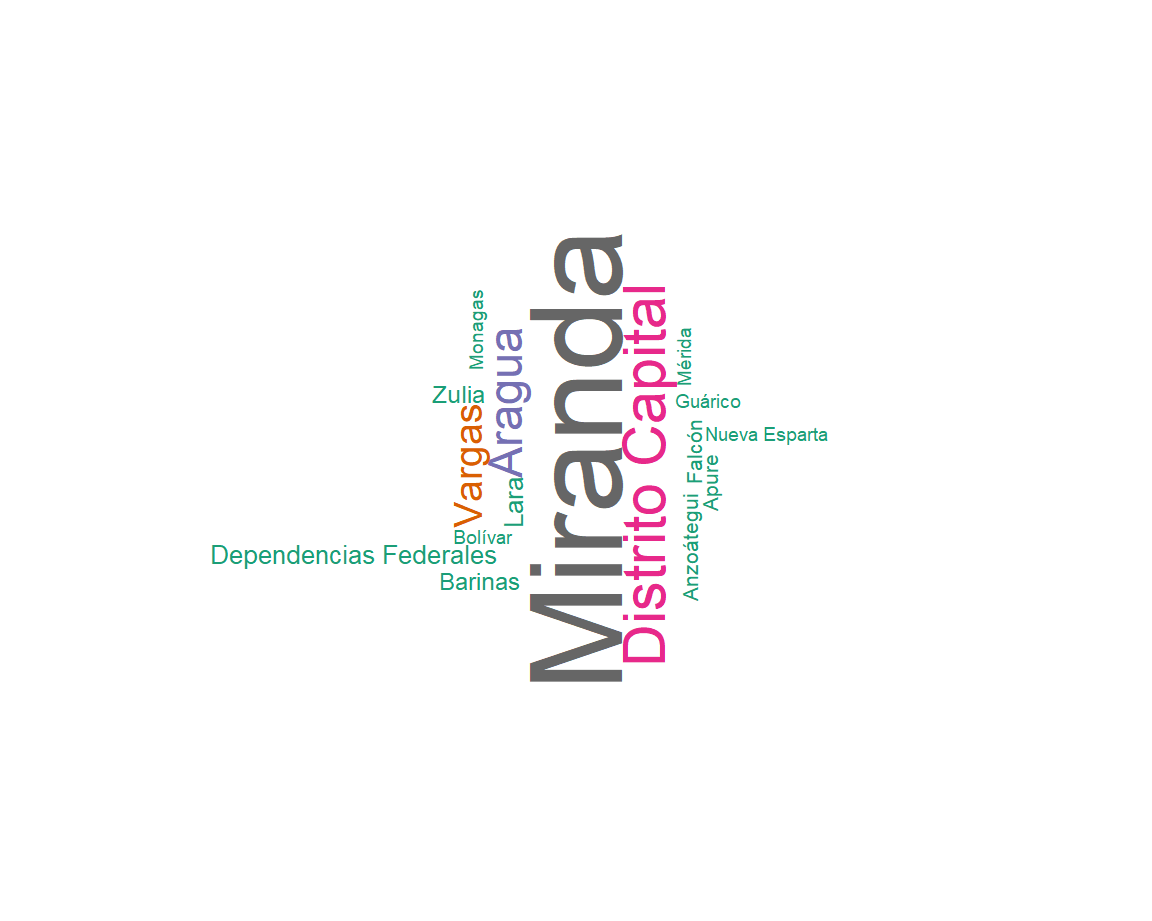
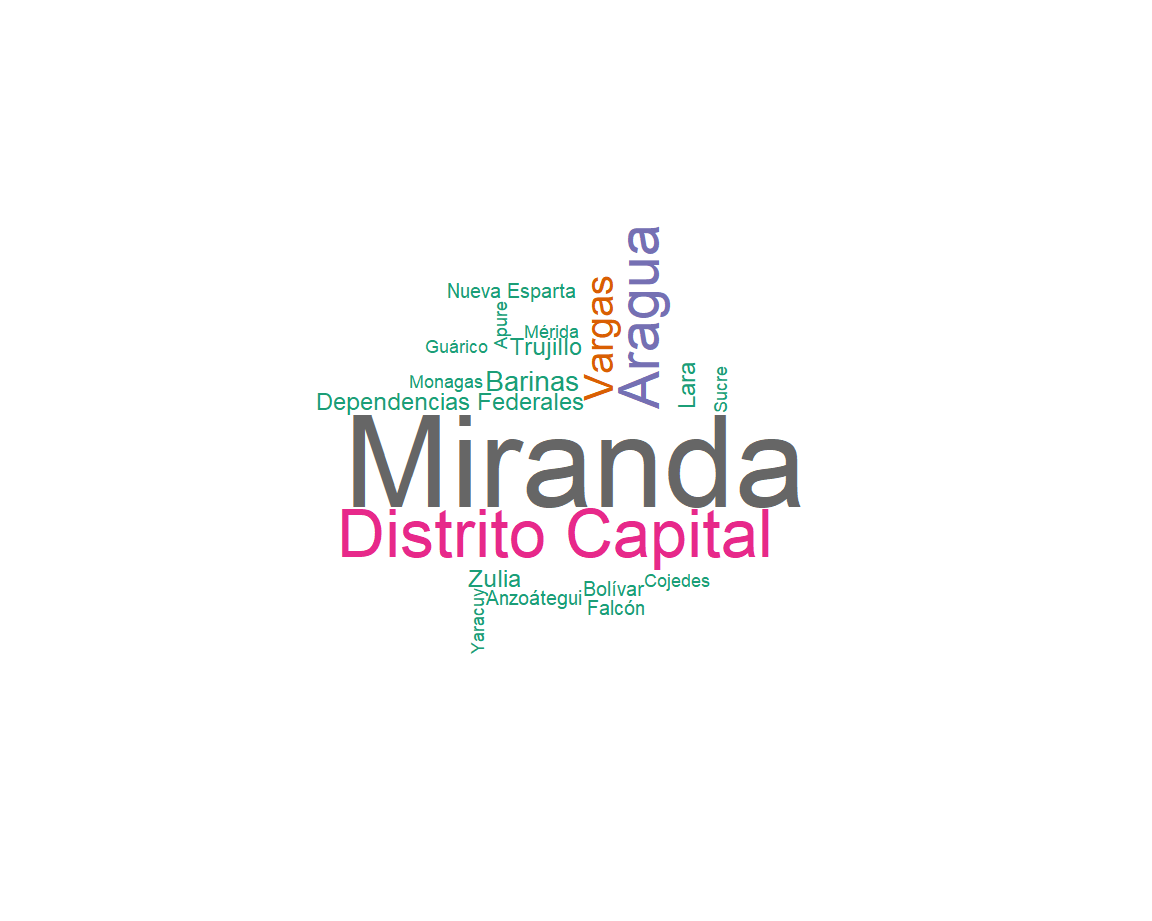
updating cases and modifying script

Changed region(s): [[0.1875, 0.2432, 0.7188, 0.76]]

diff --git a/docs/index.html b/docs/index.html
@@ -2607,28 +2607,28 @@ window.FlexDashboardComponents.push({
 <div class="knitr-options" data-fig-width="576" data-fig-height="460">
 
 </div>
-<span class="value-output" data-caption="Total Confirmed Cases" data-icon="fas fa-stethoscope" data-color="Purple">107</span>
+<span class="value-output" data-caption="Total Confirmed Cases" data-icon="fas fa-stethoscope" data-color="Purple">153</span>
 </div>
 <div id="active" class="section level3 value-box">
 <h3>active</h3>
 <div class="knitr-options" data-fig-width="576" data-fig-height="460">
 
 </div>
-<span class="value-output" data-caption="Active Cases" data-icon="fas fa-medkit" data-color="Orange">92</span>
+<span class="value-output" data-caption="Active Cases" data-icon="fas fa-medkit" data-color="Orange">101</span>
 </div>
 <div id="recovered" class="section level3 value-box">
 <h3>recovered</h3>
 <div class="knitr-options" data-fig-width="576" data-fig-height="460">
 
 </div>
-<span class="value-output" data-caption="Recovered Cases" data-icon="ion-android-favorite-outline" data-color="#00FFFF">15</span>
+<span class="value-output" data-caption="Recovered Cases" data-icon="ion-android-favorite-outline" data-color="#00FFFF">52</span>
 </div>
 <div id="death" class="section level3 value-box">
 <h3>death</h3>
 <div class="knitr-options" data-fig-width="576" data-fig-height="460">
 
 </div>
-<span class="value-output" data-caption="Death Cases" data-icon="fas fa-heartbeat" data-color="red">1</span>
+<span class="value-output" data-caption="Death Cases" data-icon="fas fa-heartbeat" data-color="red">7</span>
 </div>
 </div>
 <div id="column-1" class="section level2" data-width="650">
@@ -2638,16 +2638,16 @@ window.FlexDashboardComponents.push({
 <div class="knitr-options" data-fig-width="576" data-fig-height="460">
 
 </div>
-<div id="htmlwidget-51d7a6373f06e38b45ea" style="width:576px;height:460.8px;" class="plotly html-widget"></div>
-<script type="application/json" data-for="htmlwidget-51d7a6373f06e38b45ea">{"x":{"visdat":{"16d029985a2":["function () ","plotlyVisDat"]},"cur_data":"16d029985a2","attrs":{"16d029985a2":{"x":{},"y":{},"mode":"lines+markers","marker":{"color":"black","size":10},"line":{"color":"black"},"alpha_stroke":1,"sizes":[10,100],"spans":[1,20],"type":"scatter"}},"layout":{"margin":{"b":40,"l":60,"t":25,"r":10},"xaxis":{"domain":[0,1],"automargin":true,"title":"Dates","type":"category","categoryorder":"array","categoryarray":["13-03-2020","14-03-2020","15-03-2020","16-03-2020","17-03-2020","18-03-2020","19-03-2020","21-03-2020","22-03-2020","23-03-2020","24-03-2020","25-03-2020","26-03-2020"]},"yaxis":{"domain":[0,1],"automargin":true,"title":"CasesPerDay"},"hovermode":"closest","showlegend":false},"source":"A","config":{"showSendToCloud":false},"data":[{"x":["13-03-2020","14-03-2020","15-03-2020","16-03-2020","17-03-2020","18-03-2020","19-03-2020","21-03-2020","22-03-2020","23-03-2020","24-03-2020","25-03-2020","26-03-2020"],"y":[2,8,7,16,3,0,6,28,7,7,7,15,1],"mode":"lines+markers","marker":{"color":"black","size":10,"line":{"color":"rgba(31,119,180,1)"}},"line":{"color":"black"},"type":"scatter","error_y":{"color":"rgba(31,119,180,1)"},"error_x":{"color":"rgba(31,119,180,1)"},"xaxis":"x","yaxis":"y","frame":null}],"highlight":{"on":"plotly_click","persistent":false,"dynamic":false,"selectize":false,"opacityDim":0.2,"selected":{"opacity":1},"debounce":0},"shinyEvents":["plotly_hover","plotly_click","plotly_selected","plotly_relayout","plotly_brushed","plotly_brushing","plotly_clickannotation","plotly_doubleclick","plotly_deselect","plotly_afterplot","plotly_sunburstclick"],"base_url":"https://plot.ly"},"evals":[],"jsHooks":[]}</script>
+<div id="htmlwidget-340781490cc83888d16f" style="width:576px;height:460.8px;" class="plotly html-widget"></div>
+<script type="application/json" data-for="htmlwidget-340781490cc83888d16f">{"x":{"visdat":{"2ad02162c16":["function () ","plotlyVisDat"]},"cur_data":"2ad02162c16","attrs":{"2ad02162c16":{"x":{},"y":{},"mode":"lines+markers","marker":{"color":"black","size":10},"line":{"color":"black"},"alpha_stroke":1,"sizes":[10,100],"spans":[1,20],"type":"scatter"}},"layout":{"margin":{"b":40,"l":60,"t":25,"r":10},"xaxis":{"domain":[0,1],"automargin":true,"title":"Dates"},"yaxis":{"domain":[0,1],"automargin":true,"title":"CasesPerDay"},"hovermode":"closest","showlegend":false},"source":"A","config":{"showSendToCloud":false},"data":[{"x":["2020-03-13","2020-03-14","2020-03-15","2020-03-16","2020-03-17","2020-03-18","2020-03-19","2020-03-20","2020-03-21","2020-03-22","2020-03-23","2020-03-24","2020-03-25","2020-03-26","2020-03-27","2020-03-28","2020-03-29","2020-03-30","2020-03-31","2020-04-01","2020-04-02"],"y":[2,8,7,16,3,0,6,0,28,7,7,7,15,1,6,6,10,6,8,1,2],"mode":"lines+markers","marker":{"color":"black","size":10,"line":{"color":"rgba(31,119,180,1)"}},"line":{"color":"black"},"type":"scatter","error_y":{"color":"rgba(31,119,180,1)"},"error_x":{"color":"rgba(31,119,180,1)"},"xaxis":"x","yaxis":"y","frame":null}],"highlight":{"on":"plotly_click","persistent":false,"dynamic":false,"selectize":false,"opacityDim":0.2,"selected":{"opacity":1},"debounce":0},"shinyEvents":["plotly_hover","plotly_click","plotly_selected","plotly_relayout","plotly_brushed","plotly_brushing","plotly_clickannotation","plotly_doubleclick","plotly_deselect","plotly_afterplot","plotly_sunburstclick"],"base_url":"https://plot.ly"},"evals":[],"jsHooks":[]}</script>
 </div>
 <div id="total-cases-per-day" class="section level3">
 <h3>Total Cases per day</h3>
 <div class="knitr-options" data-fig-width="576" data-fig-height="460">
 
 </div>
-<div id="htmlwidget-259cb05514dc0cac0a37" style="width:576px;height:460.8px;" class="plotly html-widget"></div>
-<script type="application/json" data-for="htmlwidget-259cb05514dc0cac0a37">{"x":{"visdat":{"16d06292724c":["function () ","plotlyVisDat"]},"cur_data":"16d06292724c","attrs":{"16d06292724c":{"x":{},"y":{},"text":{},"marker":{"color":"#FFA500"},"textposition":"auto","name":"Active","alpha_stroke":1,"sizes":[10,100],"spans":[1,20],"type":"bar"}},"layout":{"margin":{"b":40,"l":60,"t":25,"r":10},"xaxis":{"domain":[0,1],"automargin":true,"title":"Dates","type":"category","categoryorder":"array","categoryarray":["13-03-2020","14-03-2020","15-03-2020","16-03-2020","17-03-2020","18-03-2020","19-03-2020","21-03-2020","22-03-2020","23-03-2020","24-03-2020","25-03-2020","26-03-2020"]},"yaxis":{"domain":[0,1],"automargin":true,"title":"AcumulativeSum"},"hovermode":"closest","showlegend":false},"source":"A","config":{"showSendToCloud":false},"data":[{"x":["13-03-2020","14-03-2020","15-03-2020","16-03-2020","17-03-2020","18-03-2020","19-03-2020","21-03-2020","22-03-2020","23-03-2020","24-03-2020","25-03-2020","26-03-2020"],"y":[2,10,17,33,36,36,42,70,77,84,91,106,107],"text":[2,10,17,33,36,36,42,70,77,84,91,106,107],"marker":{"color":"#FFA500","line":{"color":"rgba(31,119,180,1)"}},"textposition":["auto","auto","auto","auto","auto","auto","auto","auto","auto","auto","auto","auto","auto"],"name":"Active","type":"bar","error_y":{"color":"rgba(31,119,180,1)"},"error_x":{"color":"rgba(31,119,180,1)"},"xaxis":"x","yaxis":"y","frame":null}],"highlight":{"on":"plotly_click","persistent":false,"dynamic":false,"selectize":false,"opacityDim":0.2,"selected":{"opacity":1},"debounce":0},"shinyEvents":["plotly_hover","plotly_click","plotly_selected","plotly_relayout","plotly_brushed","plotly_brushing","plotly_clickannotation","plotly_doubleclick","plotly_deselect","plotly_afterplot","plotly_sunburstclick"],"base_url":"https://plot.ly"},"evals":[],"jsHooks":[]}</script>
+<div id="htmlwidget-6c8bd0b25c768002e978" style="width:576px;height:460.8px;" class="plotly html-widget"></div>
+<script type="application/json" data-for="htmlwidget-6c8bd0b25c768002e978">{"x":{"visdat":{"2ad07a7177df":["function () ","plotlyVisDat"]},"cur_data":"2ad07a7177df","attrs":{"2ad07a7177df":{"x":{},"y":{},"text":{},"marker":{"color":"#FFA500"},"textposition":"auto","name":"Active","alpha_stroke":1,"sizes":[10,100],"spans":[1,20],"type":"bar"}},"layout":{"margin":{"b":40,"l":60,"t":25,"r":10},"xaxis":{"domain":[0,1],"automargin":true,"title":"Dates"},"yaxis":{"domain":[0,1],"automargin":true,"title":"AcumulativeSum"},"hovermode":"closest","showlegend":false},"source":"A","config":{"showSendToCloud":false},"data":[{"x":["2020-03-13","2020-03-14","2020-03-15","2020-03-16","2020-03-17","2020-03-18","2020-03-19","2020-03-20","2020-03-21","2020-03-22","2020-03-23","2020-03-24","2020-03-25","2020-03-26","2020-03-27","2020-03-28","2020-03-29","2020-03-30","2020-03-31","2020-04-01","2020-04-02"],"y":[2,10,17,33,36,36,42,42,70,77,84,91,106,107,113,119,129,135,143,144,146],"text":[2,10,17,33,36,36,42,42,70,77,84,91,106,107,113,119,129,135,143,144,146],"marker":{"color":"#FFA500","line":{"color":"rgba(31,119,180,1)"}},"textposition":["auto","auto","auto","auto","auto","auto","auto","auto","auto","auto","auto","auto","auto","auto","auto","auto","auto","auto","auto","auto","auto"],"name":"Active","type":"bar","error_y":{"color":"rgba(31,119,180,1)"},"error_x":{"color":"rgba(31,119,180,1)"},"xaxis":"x","yaxis":"y","frame":null}],"highlight":{"on":"plotly_click","persistent":false,"dynamic":false,"selectize":false,"opacityDim":0.2,"selected":{"opacity":1},"debounce":0},"shinyEvents":["plotly_hover","plotly_click","plotly_selected","plotly_relayout","plotly_brushed","plotly_brushing","plotly_clickannotation","plotly_doubleclick","plotly_deselect","plotly_afterplot","plotly_sunburstclick"],"base_url":"https://plot.ly"},"evals":[],"jsHooks":[]}</script>
 </div>
 </div>
 </div>
@@ -2660,8 +2660,8 @@ window.FlexDashboardComponents.push({
 <div class="knitr-options" data-fig-width="576" data-fig-height="460">
 
 </div>
-<div id="htmlwidget-eda054c7bda5236df7ce" style="width:576px;height:460.8px;" class="plotly html-widget"></div>
-<script type="application/json" data-for="htmlwidget-eda054c7bda5236df7ce">{"x":{"visdat":{"16d0524c1ee9":["function () ","plotlyVisDat"]},"cur_data":"16d0524c1ee9","attrs":{"16d0524c1ee9":{"x":{},"y":{},"text":{},"marker":{"color":"purple"},"textposition":"auto","alpha_stroke":1,"sizes":[10,100],"spans":[1,20],"type":"bar"}},"layout":{"margin":{"b":40,"l":60,"t":25,"r":10},"xaxis":{"domain":[0,1],"automargin":true,"title":"state","type":"category","categoryorder":"array","categoryarray":["Miranda","Distrito Capital","Aragua","Vargas","Lara","Dependencias Federales","Barinas","Zulia","Anzoátegui","Apure","Falcón","Bolívar","Guárico","Mérida","Monagas","Nueva Esparta"]},"yaxis":{"domain":[0,1],"automargin":true,"title":"CasesPerState"},"hovermode":"closest","showlegend":false},"source":"A","config":{"showSendToCloud":false},"data":[{"x":["Distrito Capital","Anzoátegui","Apure","Aragua","Barinas","Bolívar","Falcón","Guárico","Lara","Mérida","Miranda","Monagas","Nueva Esparta","Vargas","Zulia","Dependencias Federales"],"y":[17,2,2,12,3,1,2,1,4,1,44,1,1,9,3,4],"text":[17,2,2,12,3,1,2,1,4,1,44,1,1,9,3,4],"marker":{"color":"purple","line":{"color":"rgba(31,119,180,1)"}},"textposition":["auto","auto","auto","auto","auto","auto","auto","auto","auto","auto","auto","auto","auto","auto","auto","auto"],"type":"bar","error_y":{"color":"rgba(31,119,180,1)"},"error_x":{"color":"rgba(31,119,180,1)"},"xaxis":"x","yaxis":"y","frame":null}],"highlight":{"on":"plotly_click","persistent":false,"dynamic":false,"selectize":false,"opacityDim":0.2,"selected":{"opacity":1},"debounce":0},"shinyEvents":["plotly_hover","plotly_click","plotly_selected","plotly_relayout","plotly_brushed","plotly_brushing","plotly_clickannotation","plotly_doubleclick","plotly_deselect","plotly_afterplot","plotly_sunburstclick"],"base_url":"https://plot.ly"},"evals":[],"jsHooks":[]}</script>
+<div id="htmlwidget-2d640cab861882483f5f" style="width:576px;height:460.8px;" class="plotly html-widget"></div>
+<script type="application/json" data-for="htmlwidget-2d640cab861882483f5f">{"x":{"visdat":{"2ad01bd64983":["function () ","plotlyVisDat"]},"cur_data":"2ad01bd64983","attrs":{"2ad01bd64983":{"x":{},"y":{},"text":{},"marker":{"color":"purple"},"textposition":"auto","alpha_stroke":1,"sizes":[10,100],"spans":[1,20],"type":"bar"}},"layout":{"margin":{"b":40,"l":60,"t":25,"r":10},"xaxis":{"domain":[0,1],"automargin":true,"title":"state","type":"category","categoryorder":"array","categoryarray":["Miranda","Distrito Capital","Aragua","Vargas","Barinas","Dependencias Federales","Lara","Trujillo","Zulia","Anzoátegui","Bolívar","Falcón","Nueva Esparta","Apure","Cojedes","Guárico","Mérida","Monagas","Sucre","Yaracuy","Amazonas","Carabobo","Delta Amacuro","Portuguesa","Táchira"]},"yaxis":{"domain":[0,1],"automargin":true,"title":"CasesPerState"},"hovermode":"closest","showlegend":false},"source":"A","config":{"showSendToCloud":false},"data":[{"x":["Amazonas","Anzoátegui","Apure","Aragua","Barinas","Bolívar","Carabobo","Cojedes","Delta Amacuro","Dependencias Federales","Distrito Capital","Falcón","Guárico","Lara","Mérida","Miranda","Monagas","Nueva Esparta","Portuguesa","Sucre","Táchira","Trujillo","Vargas","Yaracuy","Zulia"],"y":[0,2,1,21,6,2,0,1,0,4,26,2,1,4,1,57,1,2,0,1,0,4,12,1,4],"text":[0,2,1,21,6,2,0,1,0,4,26,2,1,4,1,57,1,2,0,1,0,4,12,1,4],"marker":{"color":"purple","line":{"color":"rgba(31,119,180,1)"}},"textposition":["auto","auto","auto","auto","auto","auto","auto","auto","auto","auto","auto","auto","auto","auto","auto","auto","auto","auto","auto","auto","auto","auto","auto","auto","auto"],"type":"bar","error_y":{"color":"rgba(31,119,180,1)"},"error_x":{"color":"rgba(31,119,180,1)"},"xaxis":"x","yaxis":"y","frame":null}],"highlight":{"on":"plotly_click","persistent":false,"dynamic":false,"selectize":false,"opacityDim":0.2,"selected":{"opacity":1},"debounce":0},"shinyEvents":["plotly_hover","plotly_click","plotly_selected","plotly_relayout","plotly_brushed","plotly_brushing","plotly_clickannotation","plotly_doubleclick","plotly_deselect","plotly_afterplot","plotly_sunburstclick"],"base_url":"https://plot.ly"},"evals":[],"jsHooks":[]}</script>
 </div>
 <div id="map" class="section level3">
 <h3>Map</h3>

diff --git a/docs/scrapingwikipediacoronavirusvnzla.py b/docs/scrapingwikipediacoronavirusvnzla.py
@@ -19,9 +19,15 @@ casosdias=soup('span',{'style':'width: 3.5em;padding:0 0.3em 0 0; text-align:rig
 
 cantidad=[]
 
+count=0
 for tag in casosdias:
-    cantidad.append(int(tag.contents[0]))
-    
+    try:
+        cases=int(tag.contents[0])
+    except:
+        n=count-1
+        cases=int(casosdias[n].contents[0])
+    cantidad.append(cases)
+    count+=1
 #La cantidad es la suma acumulativa, hay que diferenciar i - i-1
 PorDia=[]
 PorDia.append(cantidad[0])
@@ -34,8 +40,13 @@ for i in range(1,len(cantidad)):
 Fechas=[]
 dates=soup('td',{'style':'padding-left:0.4em; padding-right:0.4em; text-align:center'})
 
-for tag in dates[0::2]:
-    Fechas.append(str(tag.contents[0]))
+for tag in dates[0::3]:
+    date=str(tag.contents[0])
+    if '2020' in date:
+        Fechas.append(date)
+    else:
+        date='20-03-2020'
+        Fechas.append(date)
     
 
 
@@ -43,7 +54,7 @@ for tag in dates[0::2]:
 
 Estados=[]
 tags1=soup('table',{'class':'wikitable sortable col3der'}) 
-tags2=tags1[0]('a')
+tags2=tags1[0]('a',title=True) #no importa que tenga title pero que tenga ese atributo
 
 for tag in tags2:
     Estados.append(str(tag.contents[0]))
@@ -84,9 +95,9 @@ for i in range(0,len(td)):
     if len(td[i])!=0:
         td1.append(td[i])
         
-Total=int(td1[12][0].contents[0])
-Muertes=int(td1[13][0].contents[0])
-Recuperados=int(td1[14][0].contents[0])
+Total=int(td1[13][0].contents[0])
+Muertes=int(td1[14][0].contents[0])
+Recuperados=int(td1[15][0].contents[0])
 Activos=Total-Recuperados    
  
        

diff --git a/scrapingwikipediacoronavirusvnzla.py b/scrapingwikipediacoronavirusvnzla.py
@@ -19,9 +19,15 @@ casosdias=soup('span',{'style':'width: 3.5em;padding:0 0.3em 0 0; text-align:rig
 
 cantidad=[]
 
+count=0
 for tag in casosdias:
-    cantidad.append(int(tag.contents[0]))
-    
+    try:
+        cases=int(tag.contents[0])
+    except:
+        n=count-1
+        cases=int(casosdias[n].contents[0])
+    cantidad.append(cases)
+    count+=1
 #La cantidad es la suma acumulativa, hay que diferenciar i - i-1
 PorDia=[]
 PorDia.append(cantidad[0])
@@ -34,8 +40,13 @@ for i in range(1,len(cantidad)):
 Fechas=[]
 dates=soup('td',{'style':'padding-left:0.4em; padding-right:0.4em; text-align:center'})
 
-for tag in dates[0::2]:
-    Fechas.append(str(tag.contents[0]))
+for tag in dates[0::3]:
+    date=str(tag.contents[0])
+    if '2020' in date:
+        Fechas.append(date)
+    else:
+        date='20-03-2020'
+        Fechas.append(date)
     
 
 
@@ -43,7 +54,7 @@ for tag in dates[0::2]:
 
 Estados=[]
 tags1=soup('table',{'class':'wikitable sortable col3der'}) 
-tags2=tags1[0]('a')
+tags2=tags1[0]('a',title=True) #no importa que tenga title pero que tenga ese atributo
 
 for tag in tags2:
     Estados.append(str(tag.contents[0]))
@@ -84,9 +95,9 @@ for i in range(0,len(td)):
     if len(td[i])!=0:
         td1.append(td[i])
         
-Total=int(td1[12][0].contents[0])
-Muertes=int(td1[13][0].contents[0])
-Recuperados=int(td1[14][0].contents[0])
+Total=int(td1[13][0].contents[0])
+Muertes=int(td1[14][0].contents[0])
+Recuperados=int(td1[15][0].contents[0])
 Activos=Total-Recuperados    
  
        
